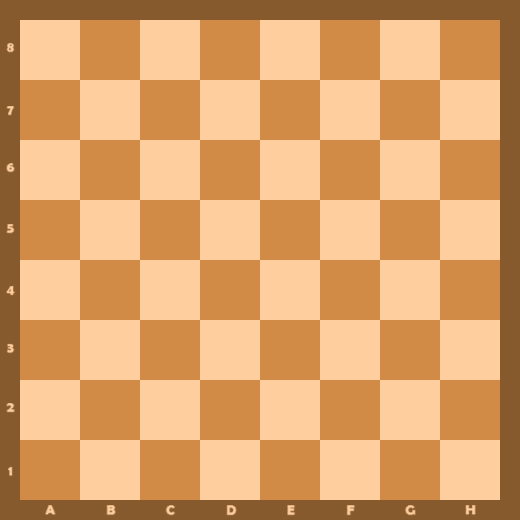
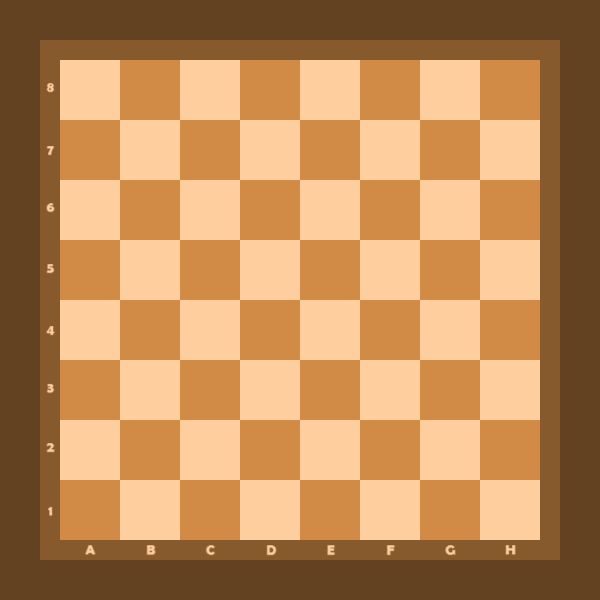
Reading from file implementation
Increased the board size, so that the time can fit. File reading implementation, to read how much time the players have.

diff --git a/chess.py b/chess.py
@@ -1,10 +1,10 @@
 import pygame
-from abc import ABC, abstractmethod
 from images import w_images, b_images, board_image
-from pieces import Pawn, Rook, King, w_pieces, b_pieces, w_king, b_king, upgrade_pawn, king_in_check, reset_can_get_en_passant
+from pieces import *
 import time
 
-def draw_game(selected_piece, available_moves, checked_king_position, draw_white_picks, draw_black_picks, white_win, black_win, stalemate):
+def draw_game(selected_piece, available_moves, checked_king_position, draw_white_picks, draw_black_picks, white_win, black_win, stalemate, white_time, black_time):
+    screen.fill((255, 255, 255))
     screen.blit(board_image, (0, 0)) 
 
     if available_moves is not None:
@@ -15,15 +15,15 @@ def draw_game(selected_piece, available_moves, checked_king_position, draw_white
         transparent_surface = pygame.Surface((60, 60), pygame.SRCALPHA)
         transparent_surface.fill(color)
         for move in available_moves:
-            screen.blit(transparent_surface, (move[0] * 60 + 20, move[1] * 60 + 20))
-            pygame.draw.rect(screen, color, (move[0] * 60 + 20 - 1, move[1] * 60 + 20 - 1, 60 + 2, 60 + 2), 2)
+            screen.blit(transparent_surface, (move[0] * 60 +BORDER_PIXEL_OFFSET, move[1] * 60 + BORDER_PIXEL_OFFSET))
+            pygame.draw.rect(screen, color, (move[0] * 60 + BORDER_PIXEL_OFFSET - 1, move[1] * 60 + BORDER_PIXEL_OFFSET - 1, 60 + 2, 60 + 2), 2)
     if checked_king_position != (-10, -10):
-        pygame.draw.rect(screen, (255, 0, 0), (checked_king_position[0] * 60 + 20 - 1, checked_king_position[1] * 60 + 20 - 1, 60 + 2, 60 + 2), 2)
+        pygame.draw.rect(screen, (255, 0, 0), (checked_king_position[0] * 60 + BORDER_PIXEL_OFFSET - 1, checked_king_position[1] * 60 + BORDER_PIXEL_OFFSET - 1, 60 + 2, 60 + 2), 2)
     
     for piece in w_pieces + b_pieces:
-        screen.blit(piece.image, (piece.position[0] * 60 + 20, piece.position[1] * 60 + 20))
+        screen.blit(piece.image, (piece.position[0] * 60 + BORDER_PIXEL_OFFSET, piece.position[1] * 60 + BORDER_PIXEL_OFFSET))
     if selected_piece is not None:
-        screen.blit(selected_piece.image, (selected_piece.position[0] * 60 + 20, selected_piece.position[1] * 60 + 20))
+        screen.blit(selected_piece.image, (selected_piece.position[0] * 60 + BORDER_PIXEL_OFFSET, selected_piece.position[1] * 60 + BORDER_PIXEL_OFFSET))
 
     if draw_white_picks:
         pygame.draw.rect(screen, (100, 60, 30), (SCREEN_WIDTH / 2 - 120, SCREEN_HEIGHT / 2 - 30, 60*4, 60))
@@ -44,6 +44,12 @@ def draw_game(selected_piece, available_moves, checked_king_position, draw_white
         for i in range(0, 181, 60):
             screen.blit(b_images[image_index], (SCREEN_WIDTH / 2 - 120 + i, SCREEN_HEIGHT / 2 - 30))
             image_index += 1
+
+    white_time_text = time_font.render(str(white_time), True, (255, 255, 255))
+    screen.blit(white_time_text, (5, SCREEN_HEIGHT - 40))
+
+    black_time_text = time_font.render(str(black_time), True, (0, 0, 0))
+    screen.blit(black_time_text, (5, 0))
 
     if white_win or black_win or stalemate:
         if white_win:
@@ -68,10 +74,22 @@ def draw_game(selected_piece, available_moves, checked_king_position, draw_white
 
     pygame.display.flip()
 
+def read_time_settings():
+    try:
+        with open("time.txt", 'r') as file:
+            lines = file.readlines()
+            white_time = int(lines[0].strip())
+            black_time = int(lines[1].strip())
+    except (ValueError, FileNotFoundError, IndexError):
+        white_time = 600
+        black_time = 600
+
+    return white_time, black_time
+
 def game_information(func):
     def wrapper(*args, **kwargs):
         start = time.time()
-        white_move_count, black_move_count, white_win, black_win, stalemate = func(*args, **kwargs)
+        white_move_count, black_move_count, white_win, black_win, stalemate, w_pieces, b_pieces = func(*args, **kwargs)
         end = time.time()
         seconds = end - start
         minutes = seconds // 60
@@ -88,6 +106,9 @@ def game_information(func):
                 file.write(f"Game was a stalemate\n")
             else:
                 file.write(f"Game was not finished.\n")
+            
+                file.write(f"{w_pieces}\n")
+
     return wrapper
 
 @game_information
@@ -105,29 +126,47 @@ def main():
     checked_king_position = (-10, -10)
     white_move_count = 0
     black_move_count = 0
+    white_time, black_time = read_time_settings()
+    last_update_time = time.time()
+    elapsed_time = 0
+
     while running:
-        draw_game(selected_piece, available_moves, checked_king_position, draw_white_picks, draw_black_picks, white_win, black_win, stalemate)
+        draw_game(selected_piece, available_moves, checked_king_position, draw_white_picks, draw_black_picks, white_win, black_win, stalemate, white_time, black_time)
+
+        current_time = time.time()
+        elapsed_time += current_time - last_update_time
+        if elapsed_time >= 1:
+            elapsed_time = 0
+            if white_turn and white_time > 0:
+                white_time -= 1
+                if white_time <= 0:
+                    black_win = True
+            elif not white_turn and black_time > 0:
+                black_time -= 1
+                if black_time <= 0:
+                    white_win = True
+        last_update_time = current_time
 
         for event in pygame.event.get():
             if event.type == pygame.QUIT:
                 running = False
-                return white_move_count, black_move_count, white_win, black_win, stalemate
+                return white_move_count, black_move_count, white_win, black_win, stalemate, w_pieces, b_pieces
             if not (white_win or black_win or stalemate):
                 if event.type == pygame.MOUSEBUTTONDOWN:
                     if event.button == 1:
                         if not (draw_white_picks or draw_black_picks):
                             if white_turn:
                                 for piece in w_pieces:
-                                    if  piece.position[0] * 60 + 20 <= event.pos[0] <= piece.position[0] * 60 + 60 + 20 \
-                                    and piece.position[1] * 60 + 20 <= event.pos[1] <= piece.position[1] * 60 + 60 + 20:
+                                    if  piece.position[0] * 60 + BORDER_PIXEL_OFFSET <= event.pos[0] <= piece.position[0] * 60 + 60 + BORDER_PIXEL_OFFSET \
+                                    and piece.position[1] * 60 + BORDER_PIXEL_OFFSET <= event.pos[1] <= piece.position[1] * 60 + 60 + BORDER_PIXEL_OFFSET:
                                         selected_piece = piece
                                         original_position = selected_piece.position
                                         available_moves = selected_piece.available_moves(w_pieces, b_pieces)
 
                             if not white_turn:
                                 for piece in b_pieces:
-                                    if  piece.position[0] * 60 + 20 <= event.pos[0] <= piece.position[0] * 60 + 60 + 20 \
-                                    and piece.position[1] * 60 + 20 <= event.pos[1] <= piece.position[1] * 60 + 60 + 20:
+                                    if  piece.position[0] * 60 + BORDER_PIXEL_OFFSET <= event.pos[0] <= piece.position[0] * 60 + 60 + BORDER_PIXEL_OFFSET \
+                                    and piece.position[1] * 60 + BORDER_PIXEL_OFFSET <= event.pos[1] <= piece.position[1] * 60 + 60 + BORDER_PIXEL_OFFSET:
                                         selected_piece = piece
                                         original_position = selected_piece.position
                                         available_moves = selected_piece.available_moves(w_pieces, b_pieces)
@@ -155,7 +194,7 @@ def main():
                     
                 if event.type == pygame.MOUSEBUTTONUP:
                     if event.button == 1 and selected_piece is not None:
-                        move_to_position = ((event.pos[0] - 20) // 60), ((event.pos[1] - 20) // 60)
+                        move_to_position = ((event.pos[0] - BORDER_PIXEL_OFFSET) // 60), ((event.pos[1] - BORDER_PIXEL_OFFSET) // 60)
                         if move_to_position in available_moves:
                             if isinstance(selected_piece, Pawn):
                                 if selected_piece.color == "w":
@@ -231,39 +270,42 @@ def main():
                         available_moves = None
                         selected_piece = None
 
+                    if white_turn:
+                        all_available_moves = []
+                        for piece in w_pieces:
+                            all_available_moves.append(piece.available_moves(w_pieces, b_pieces))
+                        if not any(all_available_moves) and king_in_check(True, w_pieces, b_pieces, w_king, b_king):
+                            black_win = True
+                        elif not any(all_available_moves) and not king_in_check(True, w_pieces, b_pieces, w_king, b_king):
+                            stalemate = True
+                    elif not white_turn:
+                        all_available_moves = []
+                        for piece in b_pieces:
+                            all_available_moves.append(piece.available_moves(w_pieces, b_pieces))
+                        if not any(all_available_moves) and king_in_check(False, w_pieces, b_pieces, w_king, b_king):
+                            white_win = True
+                        elif not any(all_available_moves) and not king_in_check(False, w_pieces, b_pieces, w_king, b_king):
+                            stalemate = True
+
         if selected_piece is not None:
             mouse_x, mouse_y = pygame.mouse.get_pos()
-            selected_piece.position = (mouse_x - 50) / 60, (mouse_y - 50) / 60
-            if (mouse_x < 20 or mouse_x > 480 + 20 or mouse_y < 20 or mouse_y > 480 + 20):
+            selected_piece.position = (mouse_x - BORDER_PIXEL_OFFSET - 30) / 60, (mouse_y - BORDER_PIXEL_OFFSET - 30) / 60
+            if (mouse_x < BORDER_PIXEL_OFFSET or mouse_x > 480 + BORDER_PIXEL_OFFSET or mouse_y < BORDER_PIXEL_OFFSET or mouse_y > 480 + BORDER_PIXEL_OFFSET):
                 selected_piece.position = original_position
                 available_moves = None
                 selected_piece = None
         
-        if white_turn:
-            all_available_moves = []
-            for piece in w_pieces:
-                all_available_moves.append(piece.available_moves(w_pieces, b_pieces))
-            if not any(all_available_moves) and king_in_check(True, w_pieces, b_pieces, w_king, b_king):
-                black_win = True
-            elif not any(all_available_moves) and not king_in_check(True, w_pieces, b_pieces, w_king, b_king):
-                stalemate = True
-        elif not white_turn:
-            all_available_moves = []
-            for piece in b_pieces:
-                all_available_moves.append(piece.available_moves(w_pieces, b_pieces))
-            if not any(all_available_moves) and king_in_check(False, w_pieces, b_pieces, w_king, b_king):
-                white_win = True
-            elif not any(all_available_moves) and not king_in_check(False, w_pieces, b_pieces, w_king, b_king):
-                stalemate = True
 
         clock.tick(60) 
     
 pygame.init()
 pygame.font.init() 
-SCREEN_WIDTH = 520
-SCREEN_HEIGHT = 520
+SCREEN_WIDTH = 600
+SCREEN_HEIGHT = 600
+BORDER_PIXEL_OFFSET = 60
 screen = pygame.display.set_mode((SCREEN_WIDTH, SCREEN_HEIGHT))
 my_font = pygame.font.SysFont('Gill Sans', 100)
+time_font = pygame.font.SysFont('Gill Sans', 35)
 pygame.display.set_caption("Chess")
 pygame.display.set_icon(b_images[2])
 clock = pygame.time.Clock()
